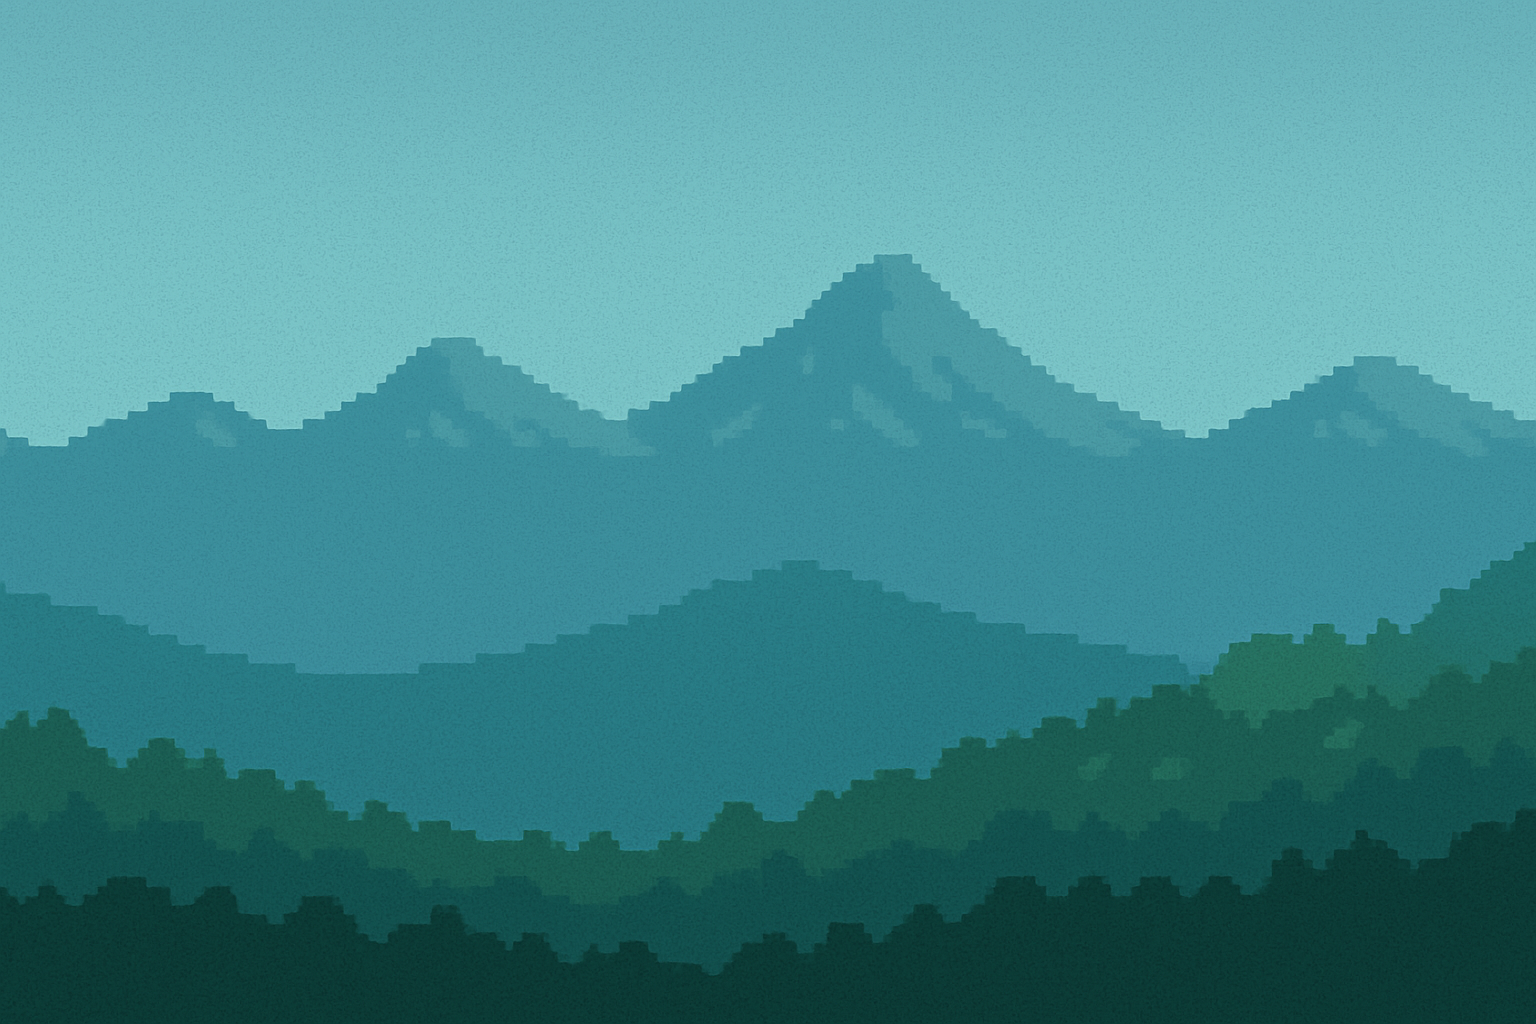
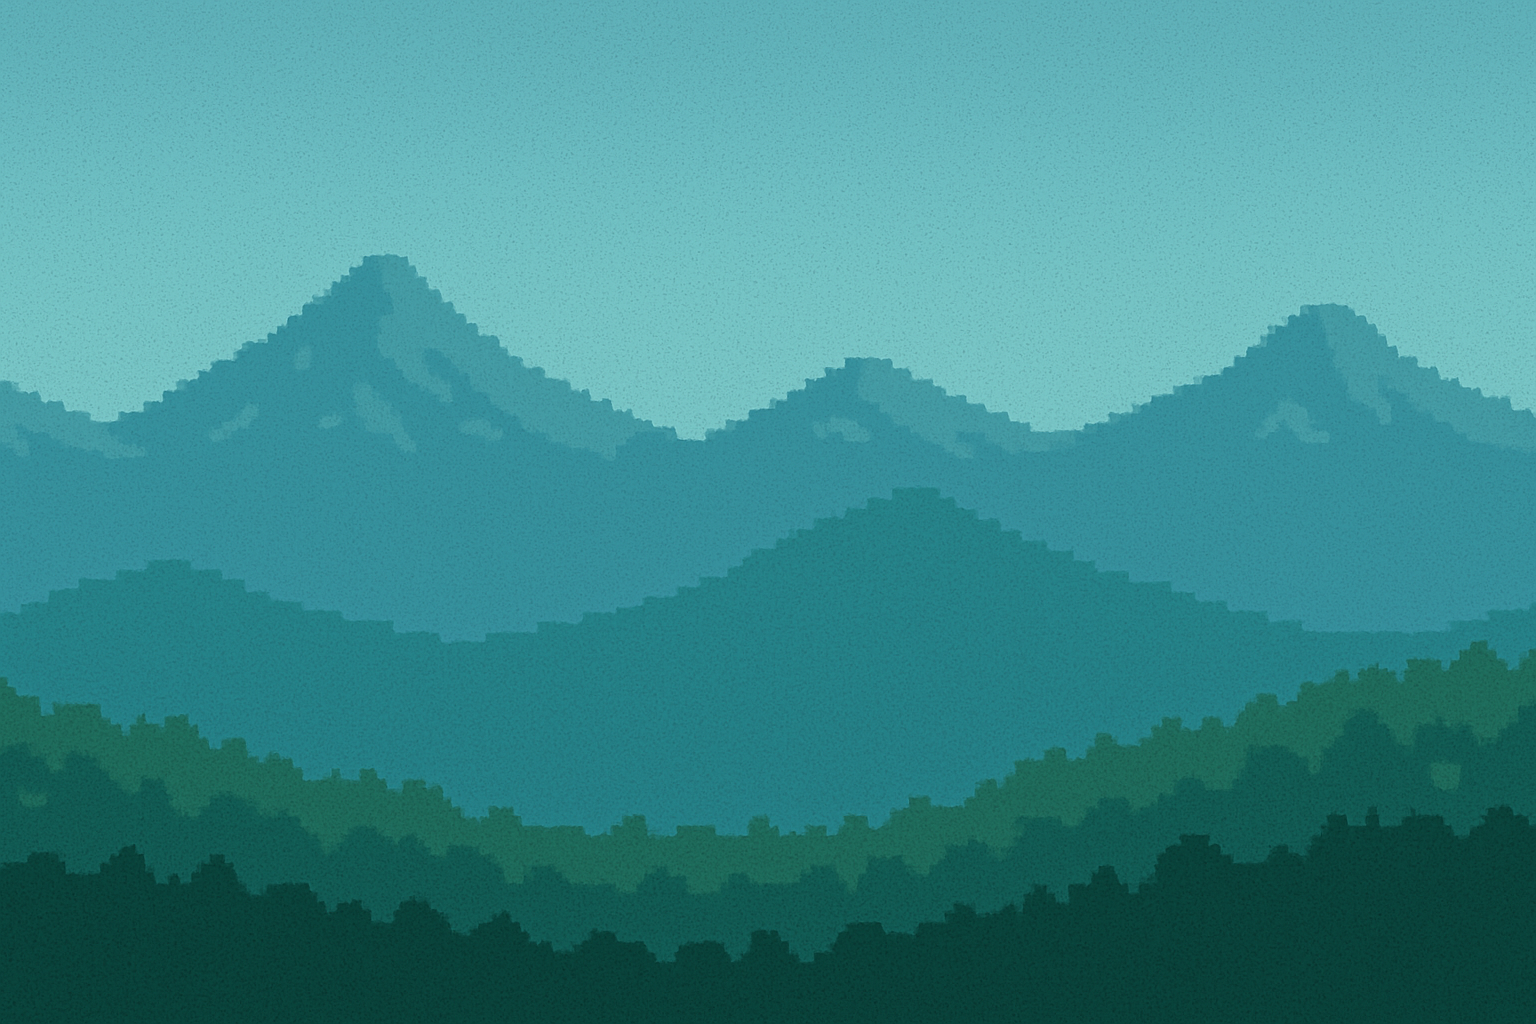
seamless background, zoomed out

diff --git a/public/game.js b/public/game.js
@@ -167,6 +167,21 @@ function resetPlayer() {
 }
 
 function drawGround(cameraX = 0) {
+  // 🌱 DIRT BODY (fill down infinitely)
+  ctx.beginPath();
+  ctx.moveTo(0, canvas.height);
+  for (let i = 0; i < groundSegments.length; i++) {
+    const x = i * segmentWidth - cameraX;
+    const y = canvas.height - groundSegments[i];
+    ctx.lineTo(x, y);
+  }
+  ctx.lineTo(canvas.width, canvas.height * 10); // dirt extends way down
+  ctx.lineTo(0, canvas.height * 10);
+  ctx.closePath();
+  ctx.fillStyle = "#6D4C41"; // dirt
+  ctx.fill();
+
+  // 🌿 GRASS LAYER (draw AFTER dirt)
   ctx.beginPath();
   ctx.moveTo(0, canvas.height);
   for (let i = 0; i < groundSegments.length; i++) {
@@ -176,20 +191,10 @@ function drawGround(cameraX = 0) {
   }
   ctx.lineTo(canvas.width, canvas.height);
   ctx.closePath();
-  ctx.fillStyle = "#4CAF50";
-  ctx.fill();
-
-  ctx.beginPath();
-  for (let i = 0; i < groundSegments.length; i++) {
-    const x = i * segmentWidth - cameraX;
-    const y = canvas.height - groundSegments[i];
-    ctx.lineTo(x, y);
-  }
-  ctx.lineTo(canvas.width, canvas.height);
-  ctx.closePath();
-  ctx.fillStyle = "#6D4C41";
+  ctx.fillStyle = "#4CAF50"; // green grass
   ctx.fill();
 }
+
 
 
 
@@ -304,52 +309,46 @@ function drawScanObjects(cameraX) {
 }
 
 function gameLoop() {
-  // Calculate camera position first
-  const cameraX = Math.max(0, player.x - canvas.width / 2);
-  if (player.x < 50) player.x = 50;
-  
-  // 🌄 Draw background image with parallax effect
+  const zoom = 0.7; // Zoom level: 1.0 = normal, <1 = zoom out
+  const cameraX = Math.max(0, player.x - canvas.width / 2 / zoom); // Adjust for zoom
+
+  ctx.save();              // Save canvas state
+  ctx.scale(zoom, zoom);   // 🔍 Apply zoom-out transformation
+
+  // 🌄 Background with parallax
   const bgScrollX = cameraX * 0.1;
   const imageWidth = bgImage.width;
   const offset = Math.floor(bgScrollX % imageWidth);
-
-  // Tile the image to fill the screen
-  for (let x = -offset; x < canvas.width; x += imageWidth) {
-    ctx.drawImage(bgImage, x, 0, imageWidth, canvas.height);
+  for (let x = -offset; x < canvas.width / zoom; x += imageWidth) {
+    ctx.drawImage(bgImage, x, 0, imageWidth, canvas.height / zoom);
   }
 
+  // 🌤 Clouds
+  for (let i = 0; i < 10; i++) {
+    const cloudX = (i * 300 + frameCount * 0.2) % (canvas.width / zoom + 300) - 150;
+    const cloudY = 50 + Math.sin(i) * 20;
+    ctx.beginPath();
+    ctx.arc(cloudX, cloudY, 30, 0, Math.PI * 2);
+    ctx.arc(cloudX + 40, cloudY + 10, 25, 0, Math.PI * 2);
+    ctx.arc(cloudX - 40, cloudY + 10, 25, 0, Math.PI * 2);
+    ctx.fillStyle = "#fff";
+    ctx.fill();
+  }
 
-
-
-
-// Draw random clouds
-for (let i = 0; i < 10; i++) {
-  const cloudX = (i * 300 + frameCount * 0.2) % (canvas.width + 300) - 150;
-  const cloudY = 50 + Math.sin(i) * 20;
-  ctx.beginPath();
-  ctx.arc(cloudX, cloudY, 30, 0, Math.PI * 2);
-  ctx.arc(cloudX + 40, cloudY + 10, 25, 0, Math.PI * 2);
-  ctx.arc(cloudX - 40, cloudY + 10, 25, 0, Math.PI * 2);
-  ctx.fillStyle = "#fff";
-  ctx.fill();
-}
-// ctx.clearRect removed to preserve sky and clouds
   updatePlayer();
-
-  
-  if (player.x < 50) player.x = 50; // prevent backtracking too far
-
   drawGround(cameraX);
-
   drawSkyPlatforms(cameraX);
-
   if (!playerInHelicopter) drawPlayerWithCamera(cameraX);
   drawHelicopter(cameraX);
   drawScanObjects(cameraX);
-  drawHUD();
+
+  ctx.restore(); // 💡 Undo zoom so HUD isn't affected
+  drawHUD();     // HUD drawn at normal scale
+
   frameCount++;
   requestAnimationFrame(gameLoop);
 }
+
 
 let frameCount = 0;
 let helicopter = {
